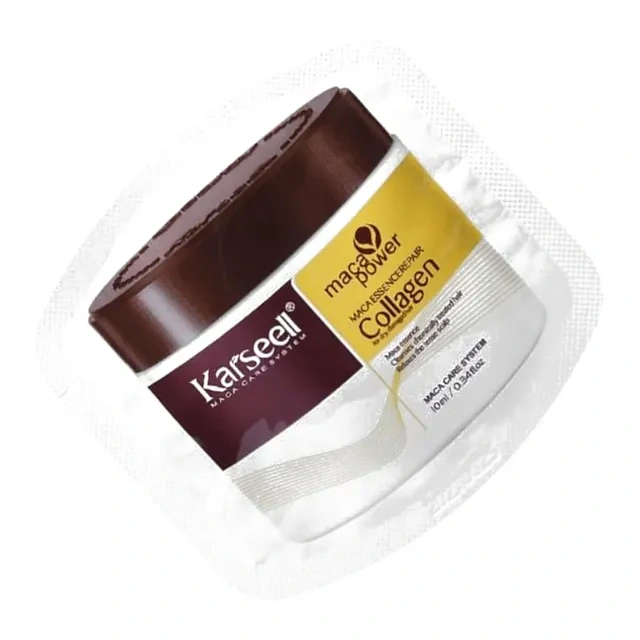
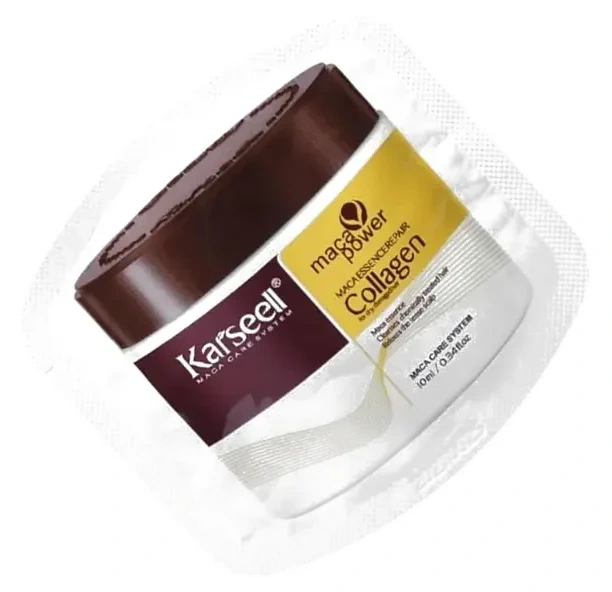
Sobres de Karsell: reemplazo automático de la foto retocada (opción A)
La foto de producción es la del Volume (612x592), distinta a la del repo. Se
retoca esa misma foto y un script de arranque la reemplaza solo si sigue siendo
idéntica a la de antes del retoque (sha256), con respaldo de la original. Si
alguien subió otra desde el panel, se respeta.

Claude-Session: https://claude.ai/code/session_01VNDw3ixrirx1erBDmx9D2B

diff --git a/tests/ajuste_fotos_test.php b/tests/ajuste_fotos_test.php
@@ -1,0 +1,84 @@
+<?php
+declare(strict_types=1);
+
+if (PHP_SAPI !== 'cli') {
+    http_response_code(404);
+    exit;
+}
+require_once __DIR__ . '/../config.php';
+require_once __DIR__ . '/../includes/imagenes.php';
+
+$fallos = 0;
+function verificar(bool $cond, string $msg): void
+{
+    global $fallos;
+    echo ($cond ? "OK   - " : "FAIL - ") . $msg . "\n";
+    if (!$cond) { $fallos++; }
+}
+
+/* Ajuste puntual de una foto (aplicar_ajuste_foto): se reemplaza solo si la foto de la
+   tienda sigue siendo la que se retocó, con respaldo, una sola vez y sin pisar una
+   foto que alguien subió después. Usa un SKU de prueba y lo borra al terminar. */
+
+const SKU = 'ZZPRUEBA-02';
+$tmp = sys_get_temp_dir() . '/ajuste_' . getmypid();
+mkdir($tmp);
+
+function limpiar(): void
+{
+    global $tmp;
+    foreach (glob(PRODUCTOS_IMG_DIR . '/' . SKU . '.*') ?: [] as $f) {
+        unlink($f);
+    }
+    foreach (glob(PRODUCTOS_AJUSTES_RESPALDO . '/' . SKU . '.*') ?: [] as $f) {
+        unlink($f);
+    }
+    foreach (glob($tmp . '/*') ?: [] as $f) {
+        unlink($f);
+    }
+    @rmdir($tmp);
+}
+limpiar();
+mkdir($tmp);
+register_shutdown_function('limpiar');
+
+function foto(string $archivo, int $gris): void
+{
+    $img = imagecreatetruecolor(500, 500);
+    imagefill($img, 0, 0, imagecolorallocate($img, 255, 255, 255));
+    imagefilledrectangle($img, 150, 50, 350, 450, imagecolorallocate($img, $gris, 40, 20));
+    imagewebp($img, $archivo, 90);
+    imagedestroy($img);
+}
+
+$tienda = PRODUCTOS_IMG_DIR . '/' . SKU . '.webp';
+$nueva  = $tmp . '/nueva.webp';
+foto($tienda, 90);
+foto($nueva, 200);
+$shaVieja = hash_file('sha256', $tienda);
+
+verificar(aplicar_ajuste_foto('ZZNOEXISTE-01', $shaVieja, $nueva) === 'sin_foto', 'sin foto en la tienda: no hace nada');
+verificar(aplicar_ajuste_foto(SKU, $shaVieja, $tmp . '/no-hay.webp') === 'error', 'sin archivo retocado: error, la foto no se toca');
+verificar(hash_file('sha256', $tienda) === $shaVieja, 'tras el error la foto sigue igual');
+
+verificar(aplicar_ajuste_foto(SKU, str_repeat('0', 64), $nueva) === 'distinta', 'si la foto no es la retocada, no se toca');
+verificar(hash_file('sha256', $tienda) === $shaVieja, 'foto distinta: queda igual');
+
+verificar(aplicar_ajuste_foto(SKU, $shaVieja, $nueva) === 'aplicado', 'foto igual a la retocada: se reemplaza');
+verificar(hash_file('sha256', $tienda) === hash_file('sha256', $nueva), 'la foto de la tienda quedó como la retocada');
+$respaldos = glob(PRODUCTOS_AJUSTES_RESPALDO . '/' . SKU . '.*.webp') ?: [];
+verificar(count($respaldos) === 1 && hash_file('sha256', $respaldos[0]) === $shaVieja, 'la original quedó respaldada, idéntica');
+verificar(is_file(PRODUCTOS_IMG_DIR . '/' . SKU . '.mini.webp'), 'se rehízo la versión mini');
+verificar(!is_file($tienda . '.tmp'), 'no quedan archivos temporales');
+
+verificar(aplicar_ajuste_foto(SKU, $shaVieja, $nueva) === 'ya_aplicado', 'segunda vez: ya estaba ajustada');
+verificar(count(glob(PRODUCTOS_AJUSTES_RESPALDO . '/' . SKU . '.*.webp') ?: []) === 1, 'segunda vez: no hay otro respaldo');
+
+foto($tienda, 20);
+$shaOtra = hash_file('sha256', $tienda);
+verificar(aplicar_ajuste_foto(SKU, $shaVieja, $nueva) === 'distinta' && hash_file('sha256', $tienda) === $shaOtra, 'una foto subida después se respeta');
+
+verificar(aplicar_ajuste_foto('../ZZ', $shaVieja, $nueva) === 'error', 'un SKU con ruta no se acepta');
+
+echo $fallos === 0 ? "\nTODO OK\n" : "\n$fallos FALLO(S)\n";
+exit($fallos === 0 ? 0 : 1);

diff --git a/includes/imagenes.php b/includes/imagenes.php
@@ -1009,3 +1009,51 @@ function deshacer_revision_fotos(string $id): int
     rename($dir, PRODUCTOS_RESPALDOS_DIR . '/deshecha-' . $id);
     return $restauradas;
 }
+
+/* =========================================================
+   Ajustes puntuales de una foto (retoques hechos a mano)
+   =========================================================
+   El Volume de Railway no se pisa en los despliegues: la foto de la tienda es la
+   que ya está ahí. Para cambiar UNA foto con un retoque aprobado se usa esto:
+   reemplaza la foto solo si sigue siendo EXACTAMENTE la que se retocó (mismo
+   sha256). Si alguien subió otra foto desde el panel, esa se respeta. Antes de
+   reemplazar guarda la original en _respaldos/ajustes/. Correrlo de más no hace
+   nada (tools/ajustar_fotos_catalogo.php). */
+
+define('PRODUCTOS_AJUSTES_RESPALDO', PRODUCTOS_RESPALDOS_DIR . '/ajustes');
+
+/**
+ * @return string 'aplicado' | 'ya_aplicado' | 'distinta' | 'sin_foto' | 'error'
+ */
+function aplicar_ajuste_foto(string $sku, string $shaEsperada, string $archivoNuevo): string
+{
+    $actual = PRODUCTOS_IMG_DIR . '/' . $sku . '.webp';
+    if (!preg_match('/^[A-Z0-9\-_]+$/', $sku) || !is_file($archivoNuevo)) {
+        return 'error';
+    }
+    if (!is_file($actual)) {
+        return 'sin_foto';
+    }
+    $shaActual = hash_file('sha256', $actual);
+    if ($shaActual === hash_file('sha256', $archivoNuevo)) {
+        return 'ya_aplicado';
+    }
+    if ($shaActual !== strtolower($shaEsperada)) {
+        return 'distinta';
+    }
+    if (!is_dir(PRODUCTOS_AJUSTES_RESPALDO) && !mkdir(PRODUCTOS_AJUSTES_RESPALDO, 0775, true) && !is_dir(PRODUCTOS_AJUSTES_RESPALDO)) {
+        return 'error';
+    }
+    // Sin respaldo no se toca la foto.
+    if (!copy($actual, PRODUCTOS_AJUSTES_RESPALDO . '/' . $sku . '.' . date('Ymd-His') . '.webp')) {
+        return 'error';
+    }
+    $temporal = $actual . '.tmp';
+    if (!copy($archivoNuevo, $temporal) || !rename($temporal, $actual)) {
+        @unlink($temporal);
+        return 'error';
+    }
+    clearstatcache(true, $actual);
+    actualizar_version_tarjeta($sku);
+    return 'aplicado';
+}

diff --git a/tools/ajustar_fotos_catalogo.php b/tools/ajustar_fotos_catalogo.php
@@ -1,0 +1,42 @@
+<?php
+declare(strict_types=1);
+
+/* Aplica los retoques aprobados de fotos de producto (ver aplicar_ajuste_foto()).
+   Lo corre el contenedor en cada arranque (docker/entrypoint.sh), antes de preparar
+   las versiones livianas. Cada retoque se aplica una sola vez y solo si la foto de
+   la tienda sigue siendo la que se retocó.
+
+       php tools/ajustar_fotos_catalogo.php
+
+   Para agregar uno: dejar la foto retocada en tools/fotos_ajustadas/<SKU>.webp y
+   sumar una línea abajo con el sha256 de la foto que había ANTES del retoque. */
+
+if (PHP_SAPI !== 'cli') {
+    exit('Este script solo corre desde la terminal.');
+}
+
+require_once __DIR__ . '/../config.php';
+require_once __DIR__ . '/../includes/imagenes.php';
+
+const AJUSTES = [
+    // Sobres de Karsell: se suaviza el borde gris punteado del plástico (opción A aprobada).
[1 lines of base64/hex data omitted]
+];
+
+$textos = [
+    'aplicado'    => 'foto ajustada (la original quedó en _respaldos/ajustes/)',
+    'ya_aplicado' => 'ya estaba ajustada',
+    'distinta'    => 'la foto de la tienda cambió desde el retoque: no se toca',
+    'sin_foto'    => 'no tiene foto en la tienda',
+    'error'       => 'no se pudo ajustar',
+];
+
+$errores = 0;
+foreach (AJUSTES as $sku => $shaEsperada) {
+    $estado = aplicar_ajuste_foto($sku, $shaEsperada, __DIR__ . '/fotos_ajustadas/' . $sku . '.webp');
+    printf("Ajuste de foto %s: %s\n", $sku, $textos[$estado]);
+    if ($estado === 'error') {
+        $errores++;
+    }
+}
+exit($errores > 0 ? 1 : 0);

diff --git a/docs/pendientes-internos.md b/docs/pendientes-internos.md
@@ -2,6 +2,15 @@
 
 _Nota privada de trabajo. No se muestra al cliente — solo para dar continuidad entre sesiones. Las entradas nuevas se agregan arriba._
 
+## 6 de octubre, 2026 (Sombra gris del sobre de Karsell)
+
+Sebastián pidió quitarle la "sombra de arriba" al producto Sobres de Karsell (ACC-08, Accesorios). Se mostraron 3 mockups con capturas reales (A suave, B limpio, C sin borde) y eligió **A**.
+- **Causa:** no era una sombra del CSS (las capas `::before/::after` solo van debajo): es el borde gris punteado del plástico del sobre, pintado en la foto.
+- **Arreglo:** retoque de la foto (difumina y aclara el punteado fuera del producto; el producto y el sobre quedan intactos). Misma medida (612×592) que la de la tienda, así el producto queda en el mismo lugar y tamaño en 8 tamaños (320–1920 px, celular acostado y tablet).
+- **Cómo llega a producción:** el Volume no se pisa en los despliegues, así que hay un reemplazo automático: `tools/ajustar_fotos_catalogo.php` (corre en `docker/entrypoint.sh`) usa `aplicar_ajuste_foto()` de `includes/imagenes.php`. Cambia la foto solo si sigue siendo EXACTAMENTE la de antes del retoque (sha256 `bcda07de…`), deja la original en `_respaldos/ajustes/ACC-08.<fecha>.webp` y rehace la mini. Si alguien subió otra foto desde el panel, la respeta. Una sola vez: después dice "ya estaba ajustada".
+- **Para otro retoque:** dejar la foto en `tools/fotos_ajustadas/<SKU>.webp` y sumar una línea en `AJUSTES` con el sha256 de la foto de antes. Prueba: `tests/ajuste_fotos_test.php` (14 comprobaciones); 20/20 archivos de prueba OK.
+- **Deshacer:** copiar el respaldo de `_respaldos/ajustes/` sobre `ACC-08.webp` (o subir otra foto desde Productos).
+
 ## 6 de octubre, 2026 (Velocidad del catálogo público y scroll fluido)
 
 Sebastián pidió que el catálogo cargue rápido, sin fotos rotas y sin efectos feos al hacer scroll. Medición antes/después en local con la versión anterior servida al lado (mismas fotos y base), 4G lento + CPU 4× para el celular.

diff --git a/README.md b/README.md
@@ -138,7 +138,7 @@ Abre http://localhost:8000
 MYSQLDATABASE=enrisate_test php tests/correr_todas.php
 ```
 
-Corre las 14 pruebas de `tests/` (cuotas, abonos, descuentos, pedidos del
+Corre las 20 pruebas de `tests/` (cuotas, abonos, descuentos, pedidos del
 catálogo, clientas, productos y facturas (y que guardarlos por fila da lo mismo que antes), crear una cuenta de cobro de todo o nada, leer una sola factura,
 IP real del visitante y límite de pedidos por IP, que lo que se guarda en
 MySQL sea exactamente lo que se lee, y que varias personas guardando a la vez
